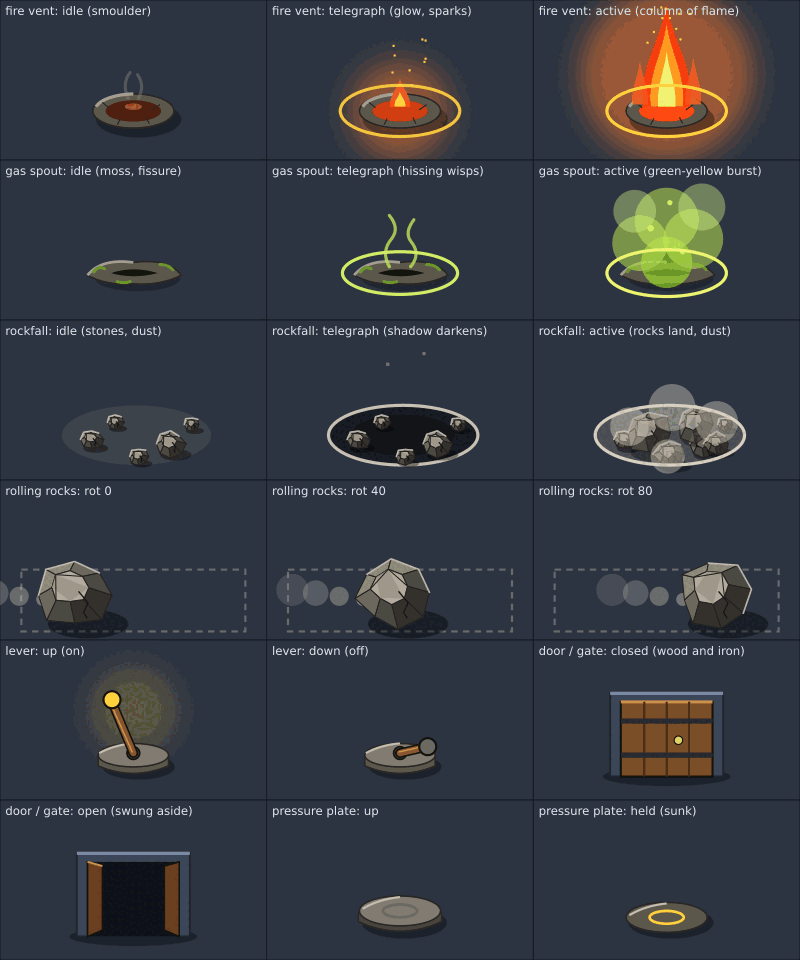
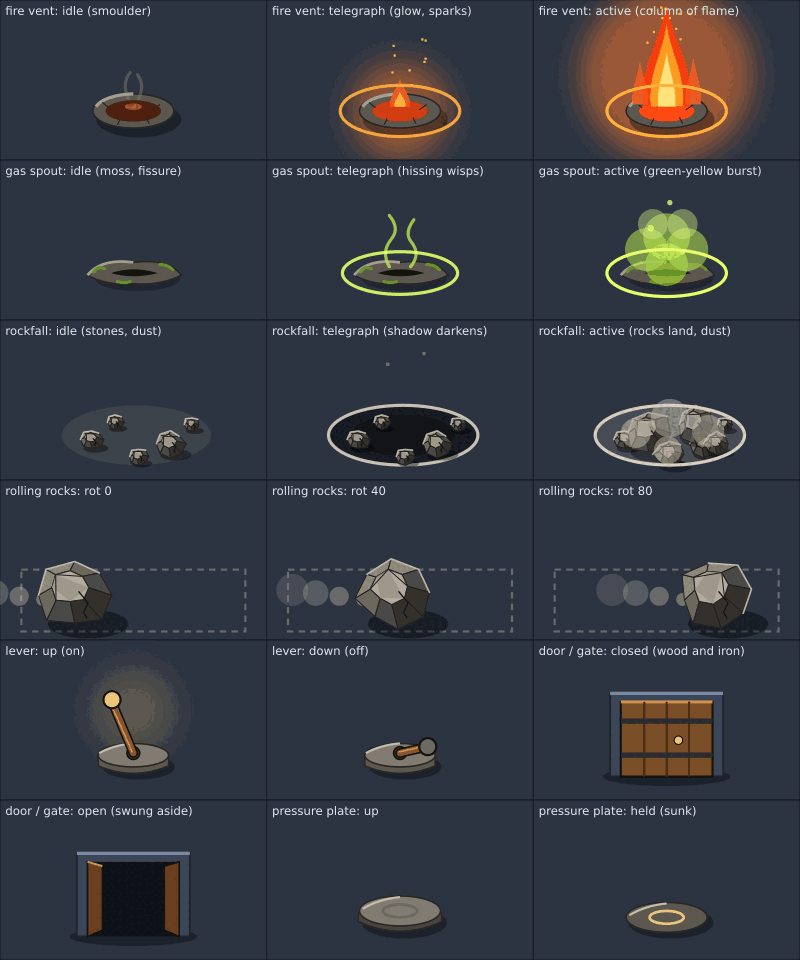
#3053: brass not danger yellow on lever and plate; section 7 synced; rings above effects

diff --git a/docs/art/3053-hazards.md b/docs/art/3053-hazards.md
@@ -12,19 +12,22 @@ Rules the study holds:
   `#4d4943`, `#34312c` in shade), a lit top plane `#b4ad9f`, a pale rim `#e6dfd0`
   on the NW edge, a cast shadow to the SE. Stone outline `#23211d`. Rocks of
   one map share these tones.
-- **Telegraph = the 2.5 x edge ring** (`strikeZoneLook`), in the kind's edge
-  colour, plus one extra cue that is not colour: sparks (vent), wisps (spout),
+- **Telegraph = the 2.5 x edge ring** (`strikeZoneLook`), in the kind's
+  `ZONE_LOOK` edge colour (vent `#ffb03d`, spout `#e6ff6a`, rockfall `#d8d0c0`), plus one extra cue that is not colour: sparks (vent), wisps (spout),
   a darkening shadow (rockfall). It reads on lava because the ring is the
   brightest thing and the cue moves.
 - **Harmful is loud only while it hurts.** Idle is a stone collar with a faint
   smoulder or moss; active adds the column, burst or falling rocks.
 - **Light:** vent active `#ff7a30`, large; vent telegraph smaller. Lever up
-  carries a small warm `#ffd23d` glow. Nothing else casts.
-- **Lever:** stone base, wooden arm `#8a5a2a`, knob gold when up (on), grey when down.
+  carries a small brass `#e8c27a` glow (danger yellow is for harm only). Nothing else casts.
+- **Lever:** stone base, wooden arm `#8a5a2a`, knob brass when up (on), grey when down.
 - **Door:** iron frame `#3b4759`, oak leaves `#7a4e26` with iron bands; open, the
   leaves swing flat against the jambs and show a dark passage.
 - **Plate:** stone disc with a front face; held, it sinks, its face vanishes
-  and the ring turns gold.
+  and the ring turns brass.
 
 Sprites: each element is a few SVG shapes, so the atlas can bake them; sizes
 follow world units (vent 80 wide, boulder 72, door 106, lever 70).
+
+The zone ring is drawn above every burst and dust cloud, and the effect stays
+within the ring's reach, so the ring always tells the true area.

diff --git a/docs/art/visual-style.md b/docs/art/visual-style.md
@@ -276,19 +276,19 @@ so a player sees where it will close. Shape differs, not only colour.
 
 Recipe (now): `drawGate` strokes an open gate's wall as a faint outline
 (`WALL_STROKE`, 50 %), which is the ghost. **Target**: the amber door body
-(`#c98a3a`) and its knob line, replacing the plain wall in #3053.
+(oak `#7a4e26` with two iron bands `#2a2a30` and a brass knob; open, the leaves swing flat against the jambs), replacing the plain wall in #3053. Study: `3053-hazards.png`.
 
 ### Lever, up and down
 
 The handle **stands** when up and **lies** when down, so the state reads by
-shape; a pip on the base is dim then bright. Handle `#e8c27a`, base `#4b5a70`.
+shape; the knob is brass `#e8c27a` when up and dull grey `#6a6560` when down. Wooden arm `#8a5a2a`, stone base `#827b70`.
 
 ![lever](visual-style/lever.svg)
 
 Recipe (now): `switch-mark.ts` draws a base and a handle, upright when up and
 thrown to the right when down, in `SWITCH_MARK_LOOK` (base `0x3a3a40`, handle
-`0x8a6a42`, knob `0xe8dcc0`). **Target**: the colours shown here (handle
-`#e8c27a`, base `#4b5a70`) and the pip replace those in #3053.
+`0x8a6a42`, knob `0xe8dcc0`). **Target**: the colours shown here (wooden
+arm `#8a5a2a`, stone base `#827b70`, brass or grey knob) replace those in #3053.
 
 Every SVG here is made by `scripts/assets/visual-style.mjs`; regenerate with
 `node scripts/assets/visual-style.mjs`.
